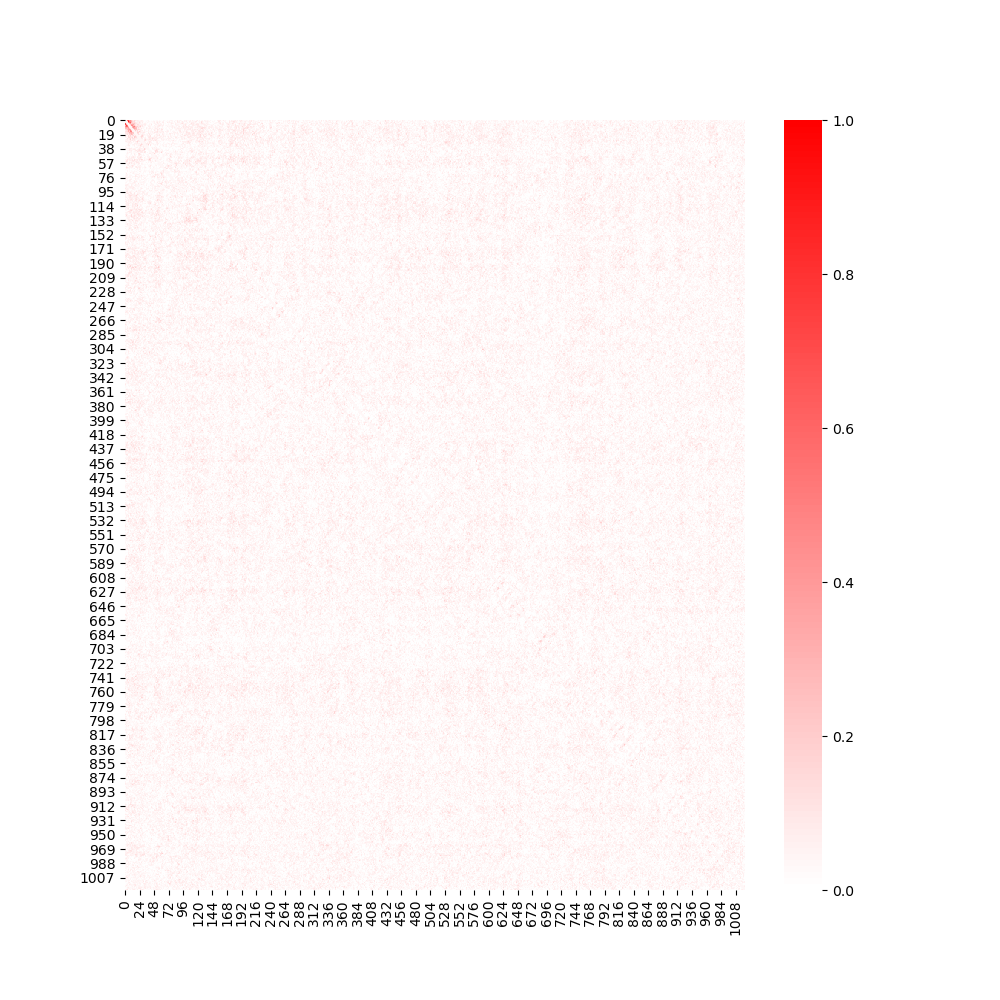
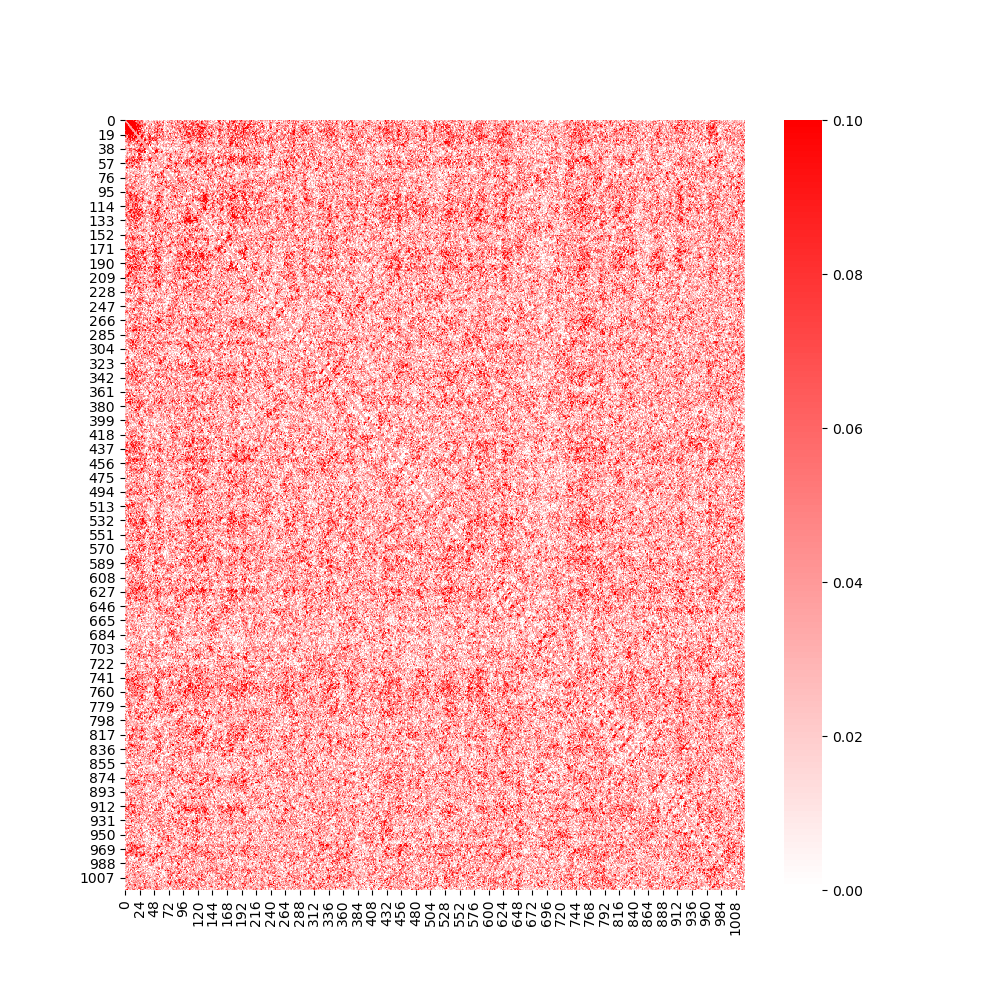
update

diff --git a/plotting_script.py b/plotting_script.py
@@ -23,7 +23,7 @@ def preprocessing():
 
 
 def main():
-    seq2ContactData = Sequences2Contacts('dataset_04_06_21', n = 1024, k = 2, toxx = True)
+    seq2ContactData = Sequences2Contacts('dataset_04_06_21', n = 1024, k = 2, toxx = True, names = True)
     dataloader, _, _ = getDataLoaders(seq2ContactData, batch_size = 1,
                                             num_workers = 0, seed = 42,
                                             split = [1,0,0], shuffle = False)
@@ -34,13 +34,17 @@ def main():
     save_dict = torch.load(modeldir, map_location = 'cpu')
     model.load_state_dict(save_dict['model_state_dict'])
     model.eval()
+    vmax = 0.1
     for (x, y, name) in dataloader:
         name = name[0].split('/')[1]
         print(name)
         yhat = model(x)
-        plotContactMap(yhat.detach().numpy(), name + '_yhat.png', divide_by_mean = False)
-        plotContactMap(y.numpy(), name + '_y.png', divide_by_mean = False)
+        plotContactMap(yhat.detach().numpy(), name + '_yhat.png', vmax = vmax)
+        plotContactMap(y.numpy(), name + '_y.png', vmax = vmax)
+        ydif = yhat.detach().numpy() - y.numpy()
+        plotContactMap(ydif, name + '_ydif.png', vmax = vmax)
         loss = F.mse_loss(yhat, y)
+        print(loss)
 
 
 if __name__ == '__main__':

diff --git a/neural_net_utils/utils.py b/neural_net_utils/utils.py
@@ -150,9 +150,9 @@ def plotContactMap(y, ofile, title = None, vmax = 1):
         assert N == 1 and C == 1
         y = y.reshape(H,W)
     plt.figure(figsize=(10, 10))
-    if vmax = 'mean':
+    if vmax == 'mean':
         vmax = np.mean(y)
-    ax = sns.heatmap(y, linewidth=0, vmin = 0, vmax = 1, cmap = mycmap)
+    ax = sns.heatmap(y, linewidth=0, vmin = 0, vmax = vmax, cmap = mycmap)
     if title is not None:
         plt.title(title)
     plt.savefig(os.path.join('images', ofile))
@@ -163,7 +163,7 @@ def getBaseParser():
 
     #pre-processing args
     parser.add_argument('--y_diag_norm', type=bool, default=True)
-    parser.add_argument('--crop', type=str, default=None, 'size of crop to apply to image - format: <leftcrop-rightcrop>')
+    parser.add_argument('--crop', type=str, default=None, help='size of crop to apply to image - format: <leftcrop-rightcrop>')
 
     # train args
     parser.add_argument('--start_epoch', type=int, default=1, help='Starting epoch')
